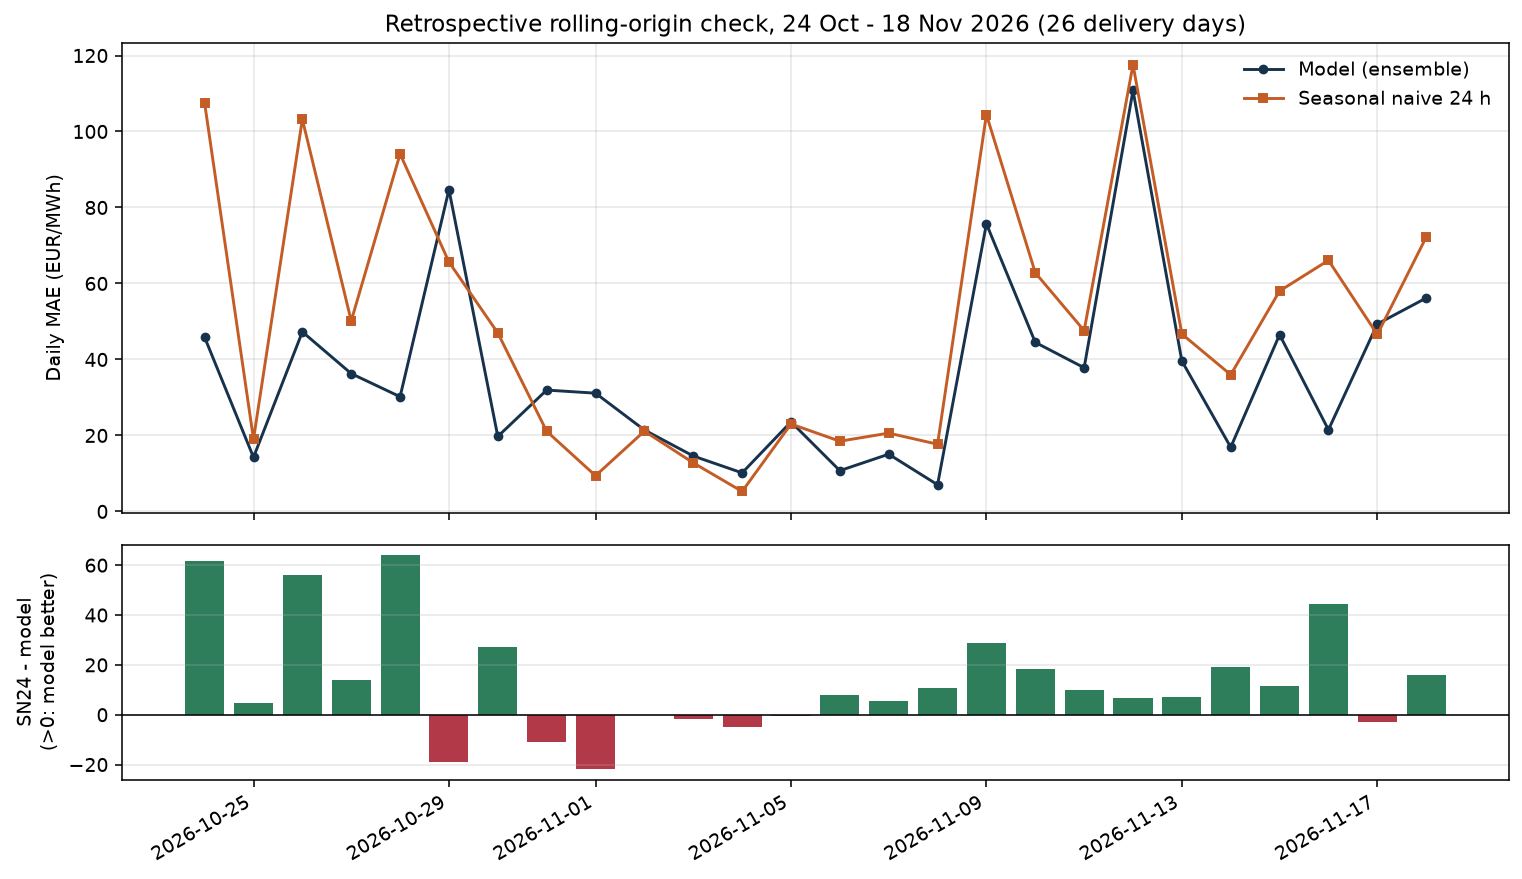
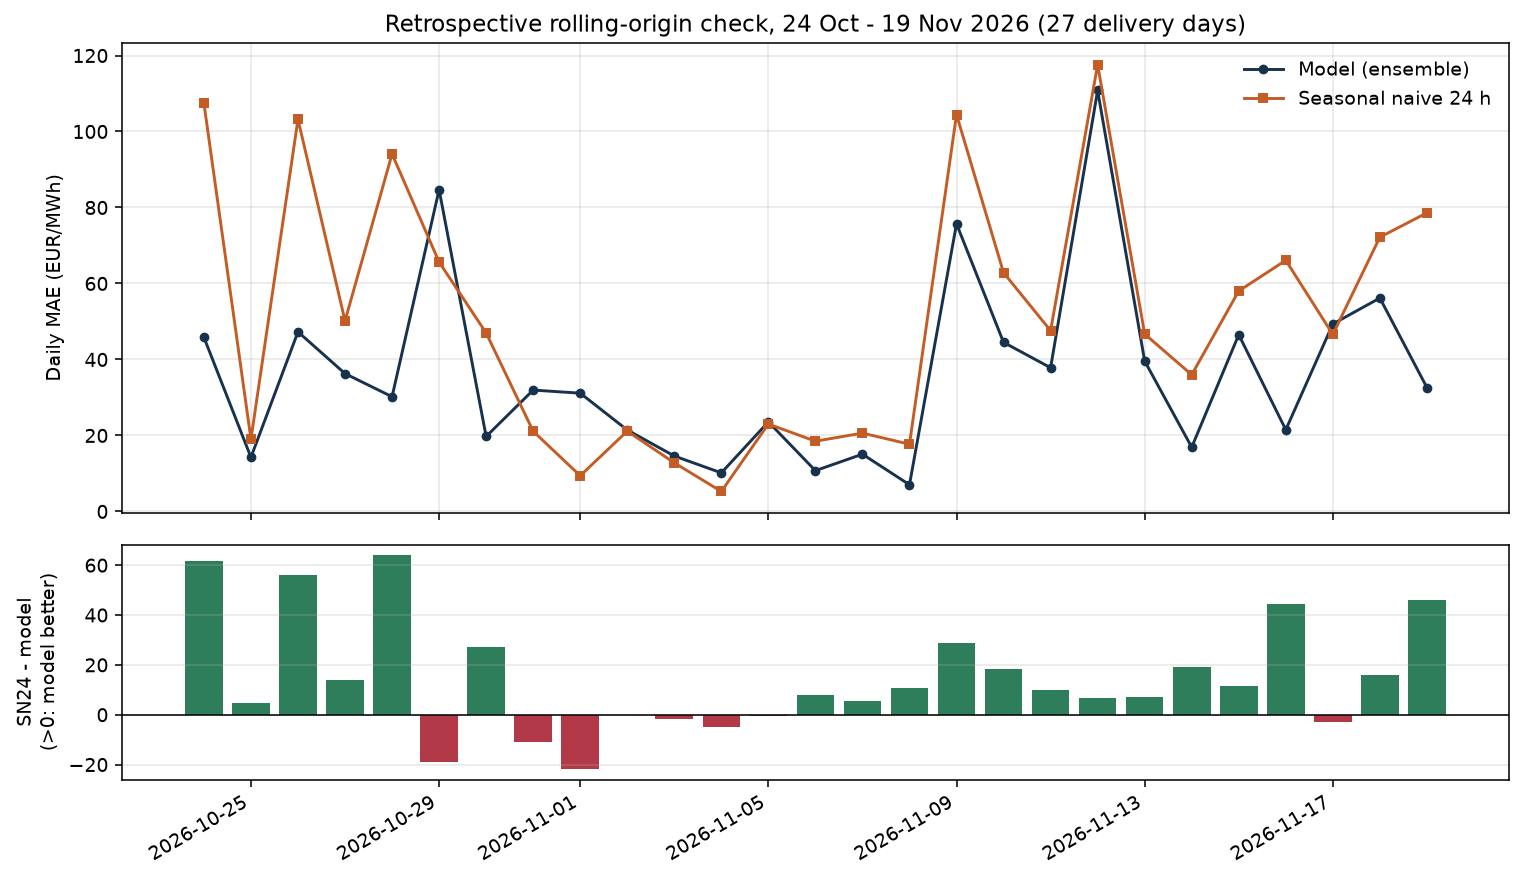
chore: daily forecast and evaluation update

diff --git a/README.md b/README.md
@@ -10,7 +10,7 @@ Leakage-aware forecasting of German EPEX Spot day-ahead prices (DE/LU, EUR/MWh) 
 ## Key findings (as of the latest run)
 
 <!-- KEY_START -->
-1. **Gate-safe model beats seasonal naive.** 26 % lower MAE than SN24 in an 89-day backtest and 27 % in a 26-day retrospective rolling check (section 5).
+1. **Gate-safe model beats seasonal naive.** 26 % lower MAE than SN24 in an 89-day backtest and 29 % in a 27-day retrospective rolling check (section 5).
 2. **The original rolling features leaked.** Removing the leak costs 1.68 EUR/MWh (6.0 % of MAE).
 3. **External data add no skill at a 24 h lag** (a price-only model is as good). Un-lagged externals would lower MAE by 7.4 EUR/MWh, but only if forecasts available before gate closure can be sourced.
 4. **No claim about live performance yet.** Valid pre-gate live days are counted in the live block at the end of this file.
@@ -61,7 +61,7 @@ Entry points: `scripts/run_daily_forecast.py` (live), `scripts/run_rolling_eval.
 
 ## 5. Results
 
-_Auto-generated by `scripts/run_ablation.py` / `scripts/run_rolling_eval.py` - last update 2026-11-18 10:04 UTC._
+_Auto-generated by `scripts/run_ablation.py` / `scripts/run_rolling_eval.py` - last update 2026-11-19 18:28 UTC._
 
 ### 5.1 Backtest ablation (gate-closure protocol)
 
@@ -86,11 +86,11 @@ Expanding-window backtest, 89 test days (2136 hours) in three windows. p-values:
 
 ### 5.2 Retrospective rolling-origin check (same code as the live job)
 
-For each Berlin delivery day 2026-10-24 to 2026-11-18 the data from that day onward is hidden, the ensemble is retrained, and a direct 24 h forecast is scored. This is a **replay**, not a live pre-gate record.
+For each Berlin delivery day 2026-10-24 to 2026-11-19 the data from that day onward is hidden, the ensemble is retrained, and a direct 24 h forecast is scored. This is a **replay**, not a live pre-gate record.
 
 | Days | MAE model | MAE SN24 | MAE SN168 | Days model < SN24 | Days model < better of SN24/SN168 | DM p vs SN24 (daily) |
 |------|-----------|----------|-----------|-------------------|-----------------------------------|----------------------|
-| 26 | **36.26** | 49.77 | 103.37 | 18/26 | 16/26 | 0.002 |
+| 27 | **36.12** | 50.84 | 100.88 | 19/27 | 17/27 | 0.001 |
 
 ![Rolling check](reports/figures/rolling_eval.png)
 
@@ -179,7 +179,7 @@ Code: MIT. Market data remain under their original terms. SMARD-related series: 
 
 ## Live daily forecast
 
-**Generated (UTC):** 2026-11-19 11:34  
+**Generated (UTC):** 2026-11-19 18:28  
 **Based on data up to (UTC):** 2026-11-19 22:00  
 **Forecast horizon (UTC):** 2026-11-19 23:00 to 2026-11-20 22:00  
 **Protocol:** gate-closure features (lags >= 24 h, complete-day context) + external_shift = 24 + ENTSO-E load (no shift) + direct 24h + shrunk hourly bias correction
@@ -192,30 +192,30 @@ Code: MIT. Market data remain under their original terms. SMARD-related series: 
 
 | Hour (UTC) | Forecast (EUR/MWh) | Bias |
 |------------|--------------------|------|
-| 2026-11-19 23:00 | 183.85 | 0.00 |
-| 2026-11-20 00:00 | 177.77 | 0.00 |
-| 2026-11-20 01:00 | 179.49 | 0.00 |
-| 2026-11-20 02:00 | 182.19 | 0.00 |
-| 2026-11-20 03:00 | 181.77 | 0.00 |
-| 2026-11-20 04:00 | 183.01 | 0.00 |
-| 2026-11-20 05:00 | 196.35 | 0.00 |
-| 2026-11-20 06:00 | 208.36 | 0.00 |
-| 2026-11-20 07:00 | 220.12 | 0.00 |
-| 2026-11-20 08:00 | 202.02 | 0.00 |
-| 2026-11-20 09:00 | 198.52 | 0.00 |
-| 2026-11-20 10:00 | 189.74 | 0.00 |
-| 2026-11-20 11:00 | 183.70 | 0.00 |
-| 2026-11-20 12:00 | 184.63 | 0.00 |
-| 2026-11-20 13:00 | 195.96 | 0.00 |
-| 2026-11-20 14:00 | 205.73 | 0.00 |
-| 2026-11-20 15:00 | 214.92 | 0.00 |
-| 2026-11-20 16:00 | 219.63 | 0.00 |
-| 2026-11-20 17:00 | 215.21 | 0.00 |
-| 2026-11-20 18:00 | 214.25 | 0.00 |
-| 2026-11-20 19:00 | 205.62 | 0.00 |
-| 2026-11-20 20:00 | 192.45 | 0.00 |
-| 2026-11-20 21:00 | 191.18 | 0.00 |
-| 2026-11-20 22:00 | 184.74 | 0.00 |
+| 2026-11-19 23:00 | 181.06 | 0.00 |
+| 2026-11-20 00:00 | 178.04 | 0.00 |
+| 2026-11-20 01:00 | 175.44 | 0.00 |
+| 2026-11-20 02:00 | 177.75 | 0.00 |
+| 2026-11-20 03:00 | 177.54 | 0.00 |
+| 2026-11-20 04:00 | 179.46 | 0.00 |
+| 2026-11-20 05:00 | 196.00 | 0.00 |
+| 2026-11-20 06:00 | 210.66 | 0.00 |
+| 2026-11-20 07:00 | 218.67 | 0.00 |
+| 2026-11-20 08:00 | 202.04 | 0.00 |
+| 2026-11-20 09:00 | 196.11 | 0.00 |
+| 2026-11-20 10:00 | 185.21 | 0.00 |
+| 2026-11-20 11:00 | 184.21 | 0.00 |
+| 2026-11-20 12:00 | 185.07 | 0.00 |
+| 2026-11-20 13:00 | 195.28 | 0.00 |
+| 2026-11-20 14:00 | 206.69 | 0.00 |
+| 2026-11-20 15:00 | 215.56 | 0.00 |
+| 2026-11-20 16:00 | 220.36 | 0.00 |
+| 2026-11-20 17:00 | 218.40 | 0.00 |
+| 2026-11-20 18:00 | 216.81 | 0.00 |
+| 2026-11-20 19:00 | 208.48 | 0.00 |
+| 2026-11-20 20:00 | 196.34 | 0.00 |
+| 2026-11-20 21:00 | 190.33 | 0.00 |
+| 2026-11-20 22:00 | 184.09 | 0.00 |
 
 ### Previous forecasts vs realized prices
 
